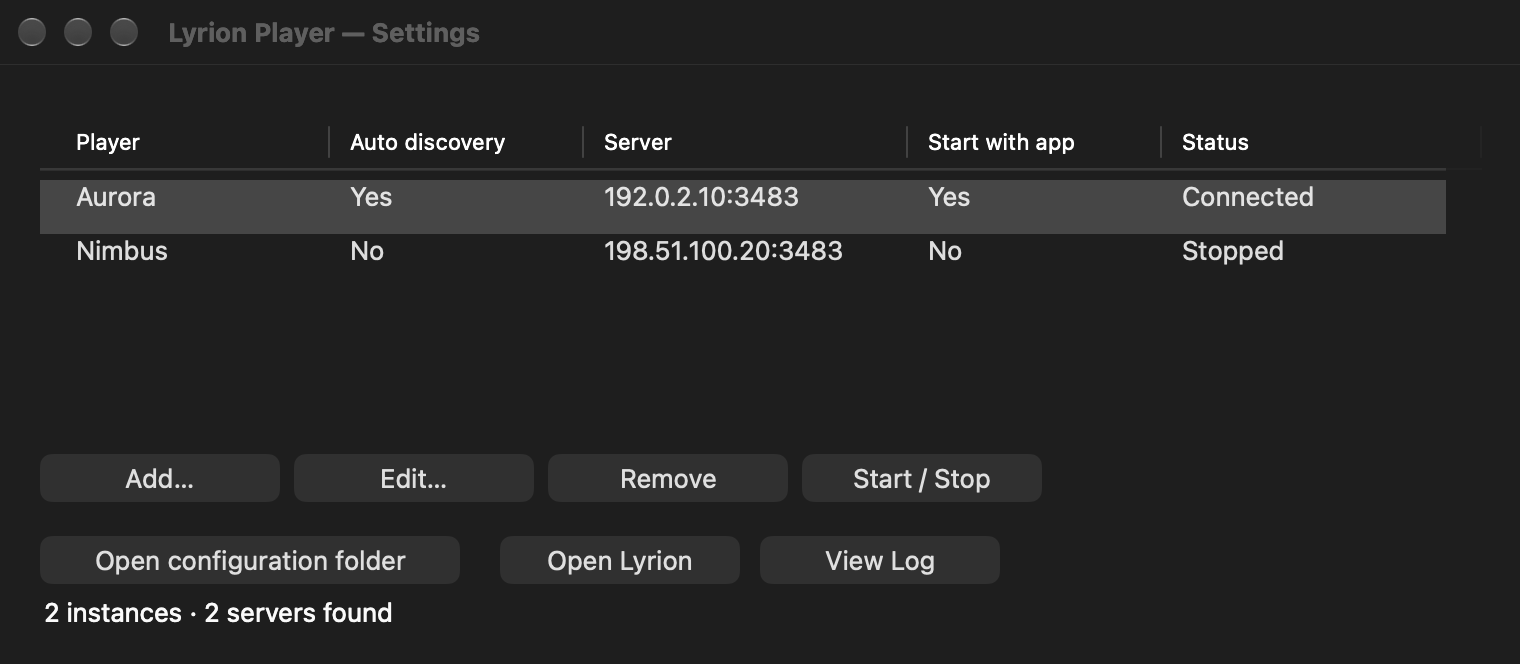
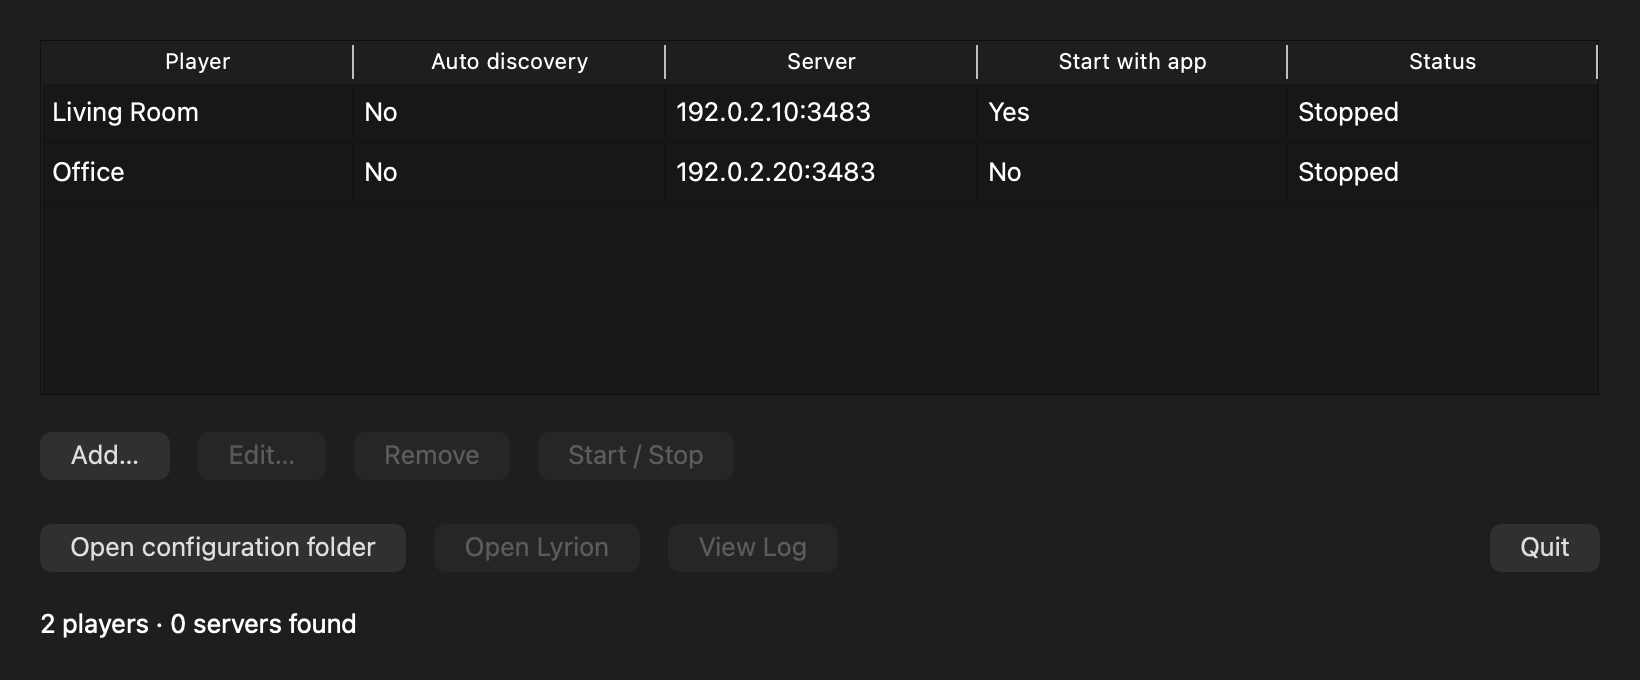
docs: Update build guidance and screenshots for Qt
- Document Qt dependencies, development deployment and package contents.
- Describe the shared frontend and its validation workflow.
- Refresh the macOS Settings screenshots in both themes.

diff --git a/README.md b/README.md
@@ -17,7 +17,7 @@ Turn a Mac or Windows computer into a playback device for Lyrion Music Server. M
 - **Automatic discovery.** Find servers on your computer and local network, or connect to a chosen host.
 - **Multiple players.** Save separate player identities and queues, including players connected to different servers.
 - **System audio output.** Follow the signed-in user's default output, including device changes during playback. Shared audio allows other applications to play sound too.
-- **Native management.** Add, edit, start and stop players, inspect their status and logs, and open Lyrion from a macOS or Windows interface.
+- **Desktop management.** Add, edit, start and stop players, inspect their status and logs, and open Lyrion from a shared Qt Widgets interface on macOS and Windows.
 - **Optional startup.** Launch the app at login and choose which players start with it. Closing Settings keeps playback running.
 - **Independent playback.** Decode FLAC, MP3, Ogg Vorbis and PCM without Squeezelite. Soxr and miniaudio provide resampling and native audio output.
 
@@ -31,11 +31,11 @@ Download an installer from a successful run of the [**Build and test** workflow]
 | macOS, Intel | `lyrion-player-macos-x86_64` | `.dmg` | Open the image and drag **Lyrion Player.app** to Applications. |
 | Windows x64 | `lyrion-player-windows-x64` | `.exe` | Run the installer, then open **Lyrion Player** from the Start menu. |
 
-The app targets macOS 13 or later and Windows 10 or later. Bundled codec libraries may require a newer OS, so the app's deployment target alone does not guarantee package compatibility with those minimum versions. Packages include the backend and runtime libraries; Python, Homebrew, MacPorts and vcpkg are not needed to run them.
+The app targets macOS 13 or later and Windows 10 or later. Bundled Qt and codec libraries may require a newer OS, so the app's deployment target alone does not guarantee package compatibility with those minimum versions. Packages include the backend and runtime libraries; Python, Homebrew, MacPorts and vcpkg are not needed to run them.
 
 macOS packages are ad-hoc signed without Apple notarization. Windows installers are unsigned. The operating system may show an unverified-app warning.
 
-For a portable installation, [build a ZIP](#portable-zips) and extract the complete package into a permanent folder. On Windows, keep `player.exe`, the DLLs and licenses beside **Lyrion Player.exe**. Place the app in its permanent location before enabling login startup.
+For a portable installation, [build a ZIP](#portable-zips) and extract the complete package into a permanent folder. On Windows, keep `player.exe`, the DLLs, `plugins` folder and licenses beside **Lyrion Player.exe**. Place the app in its permanent location before enabling login startup.
 
 ## Usage
 
@@ -149,6 +149,7 @@ Configuration and logs remain in the locations above. Keep them to reuse your se
 - Git and CMake 3.24 or later.
 - A C++17 compiler and a C99 compiler.
 - FLAC, Ogg/Vorbis, mpg123 and soxr development libraries.
+- Qt 6.7 or later with Widgets and Network; Qt Test for the test suite.
 - Python 3 for the test suite, enabled by default.
 - On macOS, Xcode command-line tools with Objective-C++ and the AppKit SDK.
 - On Windows, Visual Studio 2022 with Desktop development with C++ and [vcpkg](https://github.com/microsoft/vcpkg).
@@ -178,16 +179,16 @@ Development builds use the installed codec libraries. If FLAC is missing, CMake 
 With [Homebrew](https://brew.sh/):
 
 ```bash
-brew install cmake flac libvorbis mpg123 libsoxr python
+brew install cmake qt flac libvorbis mpg123 libsoxr python
 ```
 
 With [MacPorts](https://www.macports.org/):
 
 ```bash
 sudo port selfupdate
-sudo port install cmake flac libogg libvorbis mpg123 soxr python313
+sudo port install cmake flac libogg libvorbis mpg123 soxr qt6-qtbase python313
 cmake -S . -B build -DCMAKE_BUILD_TYPE=Release \
-    -DCMAKE_PREFIX_PATH=/opt/local \
+    '-DCMAKE_PREFIX_PATH=/opt/local;/opt/local/libexec/qt6' \
     -DPython3_EXECUTABLE=/opt/local/bin/python3.13
 cmake --build build --config Release --parallel
 ```
@@ -196,14 +197,20 @@ These commands assume the default MacPorts prefix, `/opt/local`, with `/opt/loca
 
 ### Windows dependencies
 
-With `VCPKG_ROOT` set to your vcpkg checkout, run in PowerShell:
+Install Qt 6 for MSVC 2022 x64 with the Qt installer. With `VCPKG_ROOT` set to your vcpkg checkout, run in PowerShell, replacing the Qt path with your installation:
 
 ```powershell
-cmake -S . -B build -A x64 "-DCMAKE_TOOLCHAIN_FILE=$env:VCPKG_ROOT/scripts/buildsystems/vcpkg.cmake"
+cmake -S . -B build -A x64 "-DCMAKE_TOOLCHAIN_FILE=$env:VCPKG_ROOT/scripts/buildsystems/vcpkg.cmake" -DCMAKE_PREFIX_PATH=C:/Qt/6.8.3/msvc2022_64
 cmake --build build --config Release --parallel
 ```
 
-The vcpkg manifest installs codec dependencies. Keep the DLLs copied beside `player.exe` with the executable when moving a development build.
+The vcpkg manifest installs codec dependencies. Add Qt's `bin` directory to `PATH`, then deploy Qt beside the development executables before running the app or tests:
+
+```powershell
+windeployqt --release --no-translations "build/Release/Lyrion Player.exe" "build/Release/player_qt_ui_test.exe"
+```
+
+Omit the test executable when building with tests disabled. Keep the DLLs and plugin folders with the executables when moving a development build.
 
 ### Build options
 
@@ -215,7 +222,7 @@ The vcpkg manifest installs codec dependencies. Keep the DLLs copied beside `pla
 | `PLAYER_AAC` | Enable ADTS/ADIF AAC decoding; requires faad2. | `OFF` |
 | `PLAYER_FETCH_FLAC` | Fetch FLAC 1.5.0 if an installed library is unavailable. | `ON` |
 
-To build only the backend, set `-DPLAYER_BUILD_TRAY=OFF -DPLAYER_BUILD_PACKAGES=OFF`. Existing build directories retain cached options; re-enable disabled features explicitly when reconfiguring.
+The playback backend remains independent of Qt. To build only the backend without Qt, set `-DPLAYER_BUILD_TRAY=OFF -DPLAYER_BUILD_PACKAGES=OFF`. Existing build directories retain cached options; re-enable disabled features explicitly when reconfiguring.
 
 ## Build packages
 
@@ -237,14 +244,14 @@ cmake --build build --config Release --target PACKAGE --parallel
 
 | Platform | Output example | Packaging requirements |
 | --- | --- | --- |
-| macOS | `build/LyrionPlayer-0.1.0-macos-arm64.dmg` | `hdiutil` and `codesign`, included with macOS. |
+| macOS | `build/LyrionPlayer-0.1.0-macos-arm64.dmg` | Qt deployment tools, plus macOS `hdiutil` and `codesign`. |
 | Windows x64 | `build/LyrionPlayer-0.1.0-windows-x64.exe` | NSIS 3.03 or later on `PATH`. |
 
 The package target builds the app, stages its installation and creates the installer. A normal build does not create a package. Files are written directly to the selected build directory.
 
-macOS DMGs use UDBZ compression and contain the app and an Applications shortcut. Deployment installs codec libraries and licenses inside the app, fixes dependency paths, then signs and verifies the complete bundle. It does not notarize the app. Use dependencies built for your oldest supported OS when distributing broadly.
+macOS DMGs use UDBZ compression and contain the app and an Applications shortcut. Deployment installs Qt frameworks, platform/style plugins, codec libraries and licenses inside the app, fixes dependency paths, then signs and verifies the complete bundle. It does not notarize the app. Use dependencies built for your oldest supported OS when distributing broadly.
 
-A universal macOS build requires both architectures in every linked codec library. Configure with `'-DCMAKE_OSX_ARCHITECTURES=arm64;x86_64'` only when those dependencies are available; the filename then includes `macos-arm64-x86_64`.
+A universal macOS build requires both architectures in Qt and every linked codec library. Configure with `'-DCMAKE_OSX_ARCHITECTURES=arm64;x86_64'` only when those dependencies are available; the filename then includes `macos-arm64-x86_64`.
 
 ### Portable ZIPs
 
@@ -293,7 +300,7 @@ Physical device switching and real sign-in behavior require manual validation on
 | `src/native_audio.c`, `src/native_audio.h` | Native audio output through miniaudio. |
 | `src/discovery.c`, `src/discovery.h` | Localhost and LAN server discovery. |
 | `src/managed.cpp`, `src/managed.h` | JSON status and managed-player shutdown. |
-| `src/tray/` | Shared player manager and native macOS/Windows interfaces. |
+| `src/tray/` | Shared Qt Widgets interface, player manager and native platform helpers. |
 | `tests/` | Protocol, playback, discovery, process and tray tests; generated codec fixtures. |
 | `CMakeLists.txt` | Application and test build configuration. |
 | `cmake/Packaging.cmake`, `cmake/DeployMacOS.cmake` | Installer configuration and macOS deployment. |

diff --git a/docs/architecture.md b/docs/architecture.md
@@ -93,10 +93,14 @@ it changes. Miniaudio's automatic WASAPI rerouting is disabled to avoid blocking
 inside OS notification callbacks. Device latency is an estimate based on native
 period size/count. Physical rerouting and synchronization require hardware checks.
 
-## Native tray application
+## Qt tray application
 
-`src/tray/mac_app.mm` uses AppKit; `windows_app.cpp` uses Win32 common controls and
-Shell_NotifyIcon. Both use the C++17 manager in `core.cpp`. JSON configuration has
+`src/tray/qt_main.cpp` owns the Qt application; `qt_app.cpp` provides the
+`QSystemTrayIcon`, menu and About dialog. `qt_settings.cpp` and `qt_editor.cpp`
+provide the shared Qt Widgets Settings window and player editor. The interface
+uses the C++17 manager in `core.cpp`; the playback backend has no Qt dependency.
+Native helpers in `platform_mac.mm` and `platform_windows.cpp` retain process
+ownership, filesystem paths and sign-in registration. JSON configuration has
 an explicit schema version and is replaced atomically. Player IDs are generated
 once and persisted; duplicate IDs are rejected before launching.
 
@@ -113,7 +117,7 @@ seconds. Settings windows do not own playback lifetime; Quit does.
 A stopped instance stays stopped; editing an active one restarts just that child.
 Unexpected exits retry at 1/2/4 seconds, with the fourth exit in a minute requiring
 manual retry. A launch error affects only that instance. Shutdown disables retries.
-The native main loops poll status without waiting for a server scan: metadata
+A Qt timer polls status every 250 ms without waiting for a server scan: metadata
 scans run asynchronously and support cancellation. Scanning starts with the app
 and repeats 15 seconds after each scan completes, without overlapping scans. The
 shared discovery adapter
@@ -123,3 +127,10 @@ servers and their web ports, with deduplication across interfaces in the manager
 The tray app never creates per-instance startup jobs. Start app at login registers
 only the tray application. Old per-player startup registrations from previous
 versions must be removed manually before configuring those players in Settings.
+
+A native process-owned lock prevents multiple tray instances, including an older
+native frontend running alongside this version. A user-restricted `QLocalServer`
+accepts activation requests so launching the app again opens Settings. Saved
+configuration, player IDs, bundle ID and login registration names remain unchanged.
+Qt windows close without destroying the player manager. Application quit requests
+stop all children through the same bounded shutdown path before Qt exits.

diff --git a/docs/development.md b/docs/development.md
@@ -22,10 +22,12 @@ Managed-mode tests verify JSON status, graceful stop, stdin EOF, and connected
 shutdown against mock servers. Shared tray tests cover configuration, identities,
 independent lifecycle, bounded restarts and compatibility with older configurations.
 Native process tests exercise real inherited pipes, independent stop and force termination with the
-silent backend. Native UI smoke tests create the settings/editor controls using a
+silent backend. Qt Test exercises server selection, automatic address previews, manual edits,
+validation, persisted identities, selection during refresh, window resizing,
+editor lifetime and About. App smoke tests create the settings/editor controls using a
 temporary profile. Metadata discovery tests collect multiple mock replies. None of
 these tests modify sign-in registrations.
-A CI workflow builds/tests/packages the native apps on macOS and Windows using
+A CI workflow builds/tests/packages the Qt apps on macOS and Windows using
 the default CMake `package` target and CPack. It mounts the macOS DMG, checks the
 Applications shortcut, in-app licenses and signature, and runs both packaged executables in smoke/help
 mode. On Windows it installs the NSIS package into a temporary directory, checks
@@ -57,3 +59,21 @@ Physical device switching requires manual validation on both systems:
 Hardware rerouting and real sign-in registration require manual verification on
 each target system. See [architecture](architecture.md) for the ownership and
 recovery model.
+
+## UI development
+
+The tray frontend requires Qt 6.7 or later (Widgets and Network), plus Qt Test when
+`PLAYER_BUILD_TESTS=ON`. Backend-only builds require no Qt. On Windows, deploy Qt
+next to the test executable before CTest as described in the README. macOS UI unit
+tests use Qt's offscreen platform; the application smoke test uses Cocoa.
+
+To refresh the README screenshots on macOS with Qt 6.8 or later, run:
+
+```bash
+PLAYER_TEST_SCREENSHOT_DIR="$PWD/docs/images" ./build/player_qt_ui_test screenshots
+```
+
+The fixture uses temporary configuration and example addresses. It never starts
+players or changes the system appearance. Inspect both exported themes before
+committing them. Real tray interaction, screen placement, keyboard navigation,
+sign-in and device switching still need manual checks on each platform.
